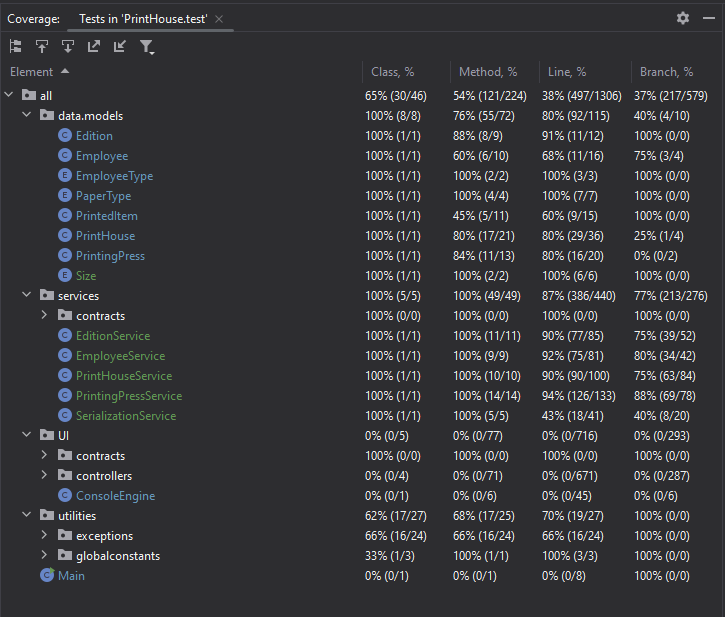
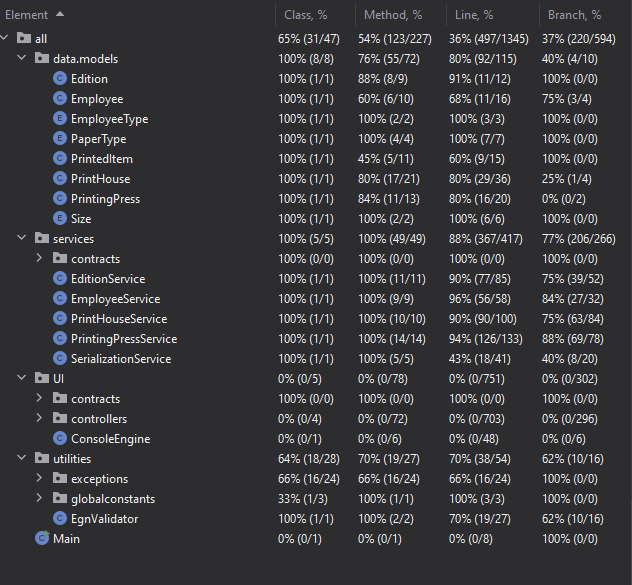
removed some unit tests in EmployeeServiceTests related to detailed EGN validation, as I changed the implementation logic - they did check what actually was wrong, ex. date year, month. Updated the test-code-coverage.PNG to reflect the change

Changed region(s): [[0.4209, 0.0, 0.9921, 0.9538], [0.0, 0.0, 0.3307, 0.9538], [0.9921, 0.8615, 1.0, 1.0]]

diff --git a/src/test/java/services/EmployeeServiceTests.java b/src/test/java/services/EmployeeServiceTests.java
@@ -119,25 +119,7 @@ public class EmployeeServiceTests {
         Employee employee = new Employee("7533021234", EmployeeType.OPERATOR); // Invalid month prefix
         InvalidEmployeeException exception = assertThrows(InvalidEmployeeException.class, () ->
                 employeeService.addEmployee(printHouse, employee));
-        assertEquals("Invalid ЕГН format", exception.getMessage());
-        assertTrue(printHouse.getEmployees().isEmpty());
-    }
-
-    @Test
-    void AddEmployee_InvalidDate_ThrowsException() {
-        Employee employee = new Employee("7502301239", EmployeeType.OPERATOR); // Feb 30
-        InvalidEmployeeException exception = assertThrows(InvalidEmployeeException.class, () ->
-                employeeService.addEmployee(printHouse, employee));
-        assertEquals("Invalid date in ЕГН", exception.getMessage());
-        assertTrue(printHouse.getEmployees().isEmpty());
-    }
-
-    @Test
-    void AddEmployee_InvalidChecksum_ThrowsException() {
-        Employee employee = new Employee("7501020019", EmployeeType.OPERATOR); // Checksum should be 8, not 9
-        InvalidEmployeeException exception = assertThrows(InvalidEmployeeException.class, () ->
-                employeeService.addEmployee(printHouse, employee));
-        assertEquals("Invalid ЕГН checksum", exception.getMessage());
+        assertEquals("Invalid EGN", exception.getMessage());
         assertTrue(printHouse.getEmployees().isEmpty());
     }
 
@@ -149,7 +131,7 @@ public class EmployeeServiceTests {
 
         InvalidEmployeeException exception = assertThrows(InvalidEmployeeException.class, () ->
                 employeeService.addEmployee(printHouse, employee2));
-        assertEquals("Employee with this ЕГН already exists", exception.getMessage());
+        assertEquals("Employee with this EGN already exists", exception.getMessage());
         assertEquals(1, printHouse.getEmployees().size());
     }
 
@@ -180,7 +162,7 @@ public class EmployeeServiceTests {
 
         InvalidEmployeeException exception = assertThrows(InvalidEmployeeException.class, () ->
                 employeeService.updateEmployee(printHouse, 0, updatedEmployee));
-        assertEquals("ЕГН cannot be modified", exception.getMessage());
+        assertEquals("EGN cannot be modified", exception.getMessage());
     }
 
     @Test
@@ -230,7 +212,7 @@ public class EmployeeServiceTests {
     // Edge Cases
     @Test
     void AddEmployee_MaximumLengthEgn_AddsSuccessfully() {
-        Employee employee = new Employee("7501020018", EmployeeType.OPERATOR); // Valid 10-digit ЕГН
+        Employee employee = new Employee("7501020018", EmployeeType.OPERATOR); // Valid 10-digit EGN
         employeeService.addEmployee(printHouse, employee);
 
         assertEquals(1, printHouse.getEmployees().size());
